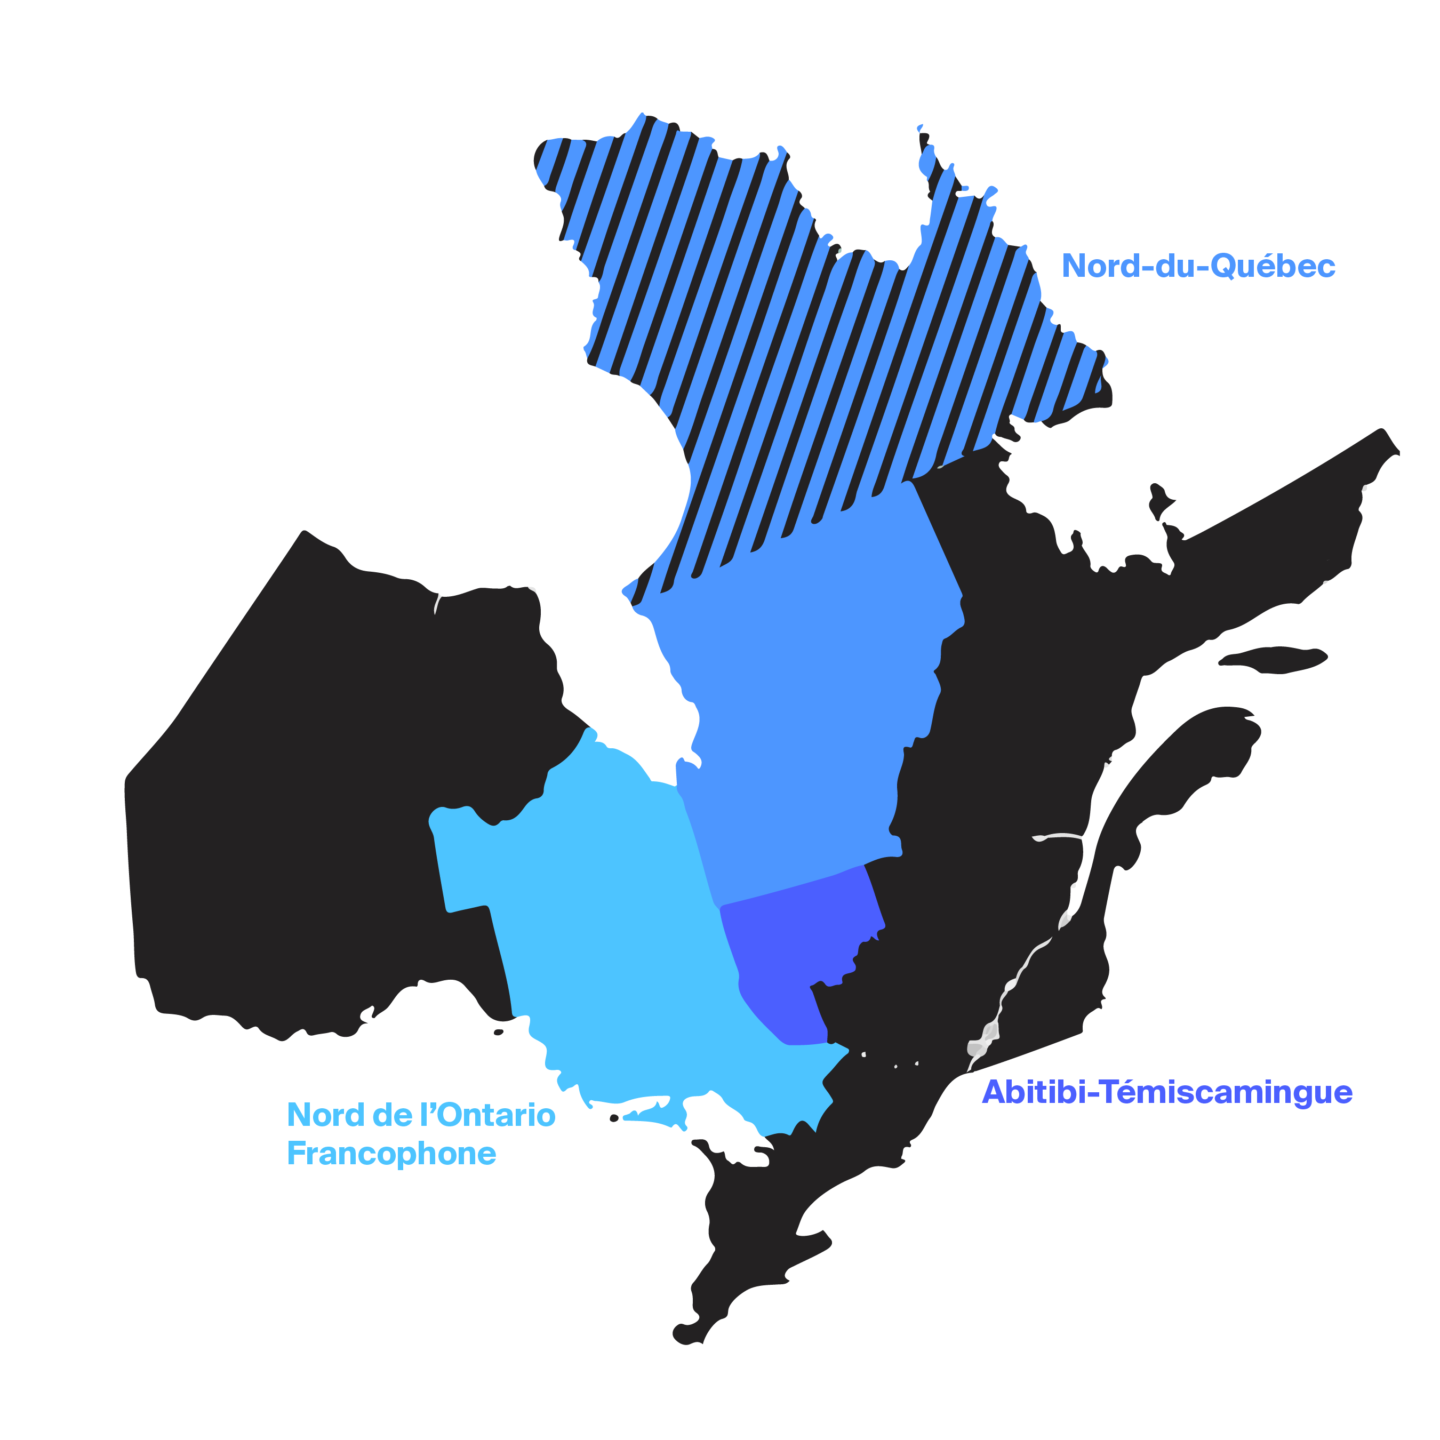
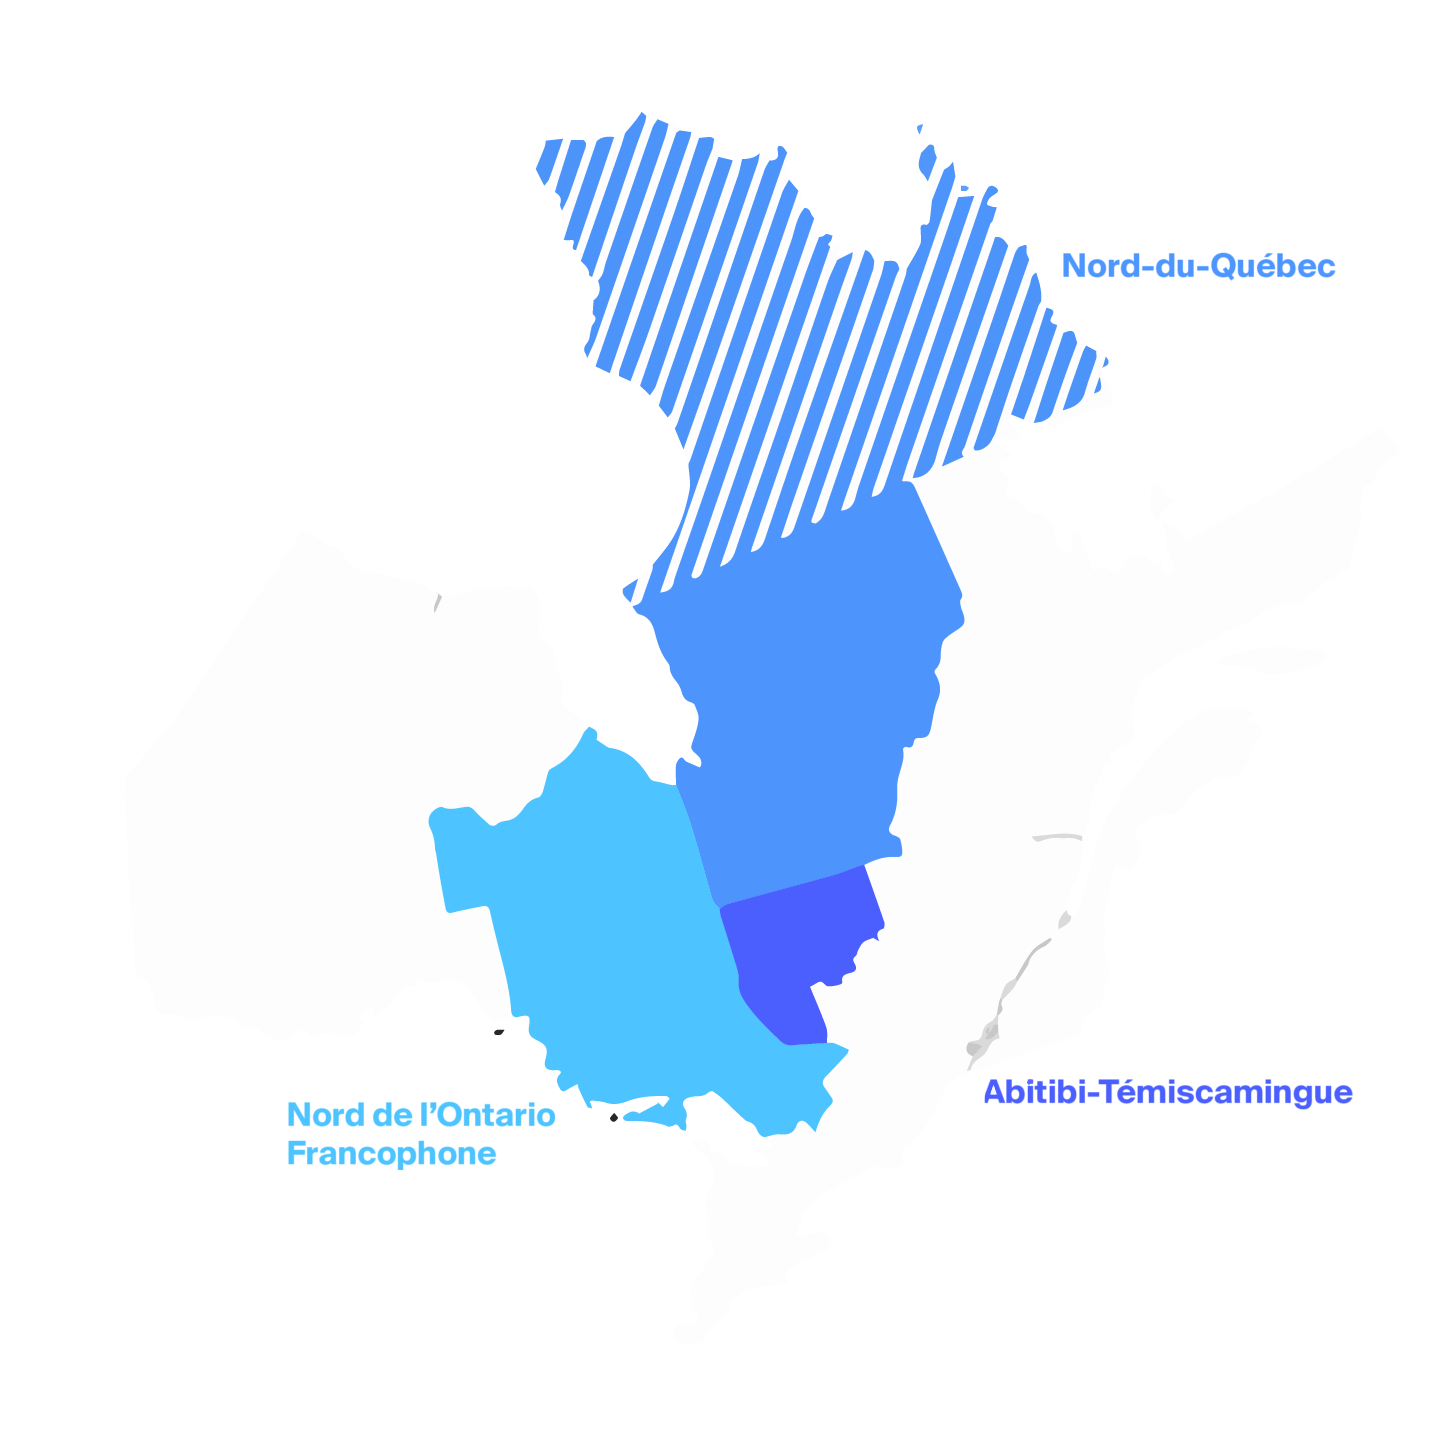
(fix) : map du cb hors croissant en opacité.

Changed region(s): [[0.375, 0.0625, 0.9688, 0.9375], [0.0625, 0.375, 0.4062, 0.7188]]

diff --git a/src/DataTypes/Entity/Types.js b/src/DataTypes/Entity/Types.js
@@ -105,7 +105,7 @@ export {getType};
 
 const getModelFromType = (type, data) => {
     const targetType = getType(type);
-    if (targetType?.modelClass) {
+    if (targetType?.modelClass && targetType?.modelClass !== "undefined") {
         return new targetType.modelClass(data);
     }
     return undefined;
